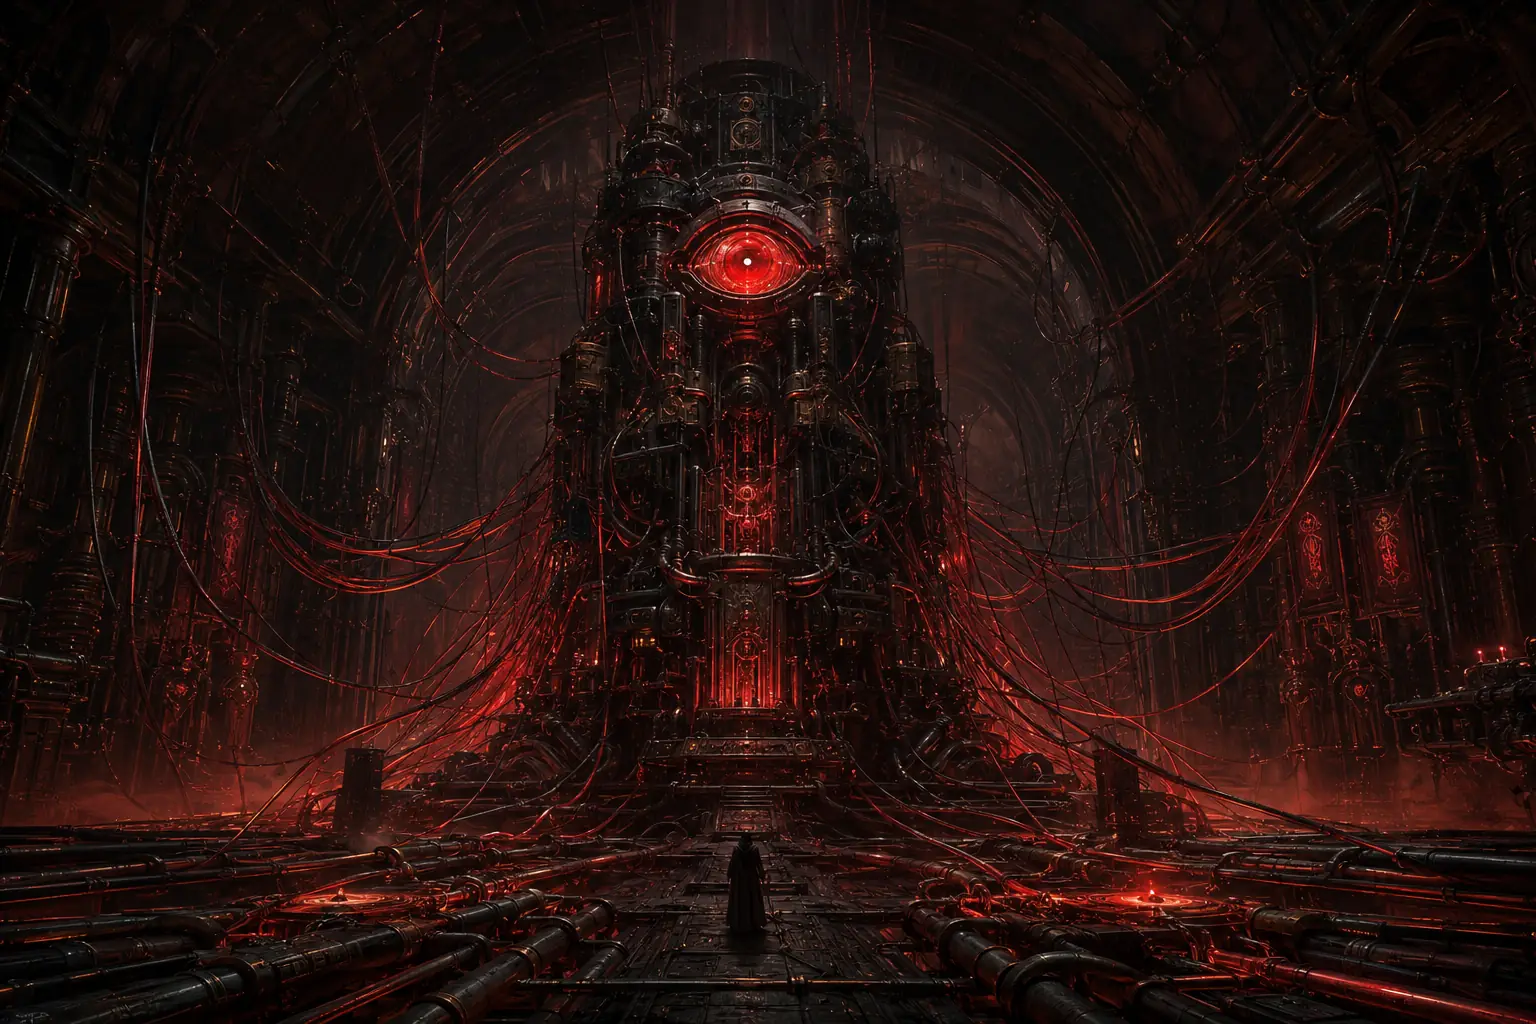
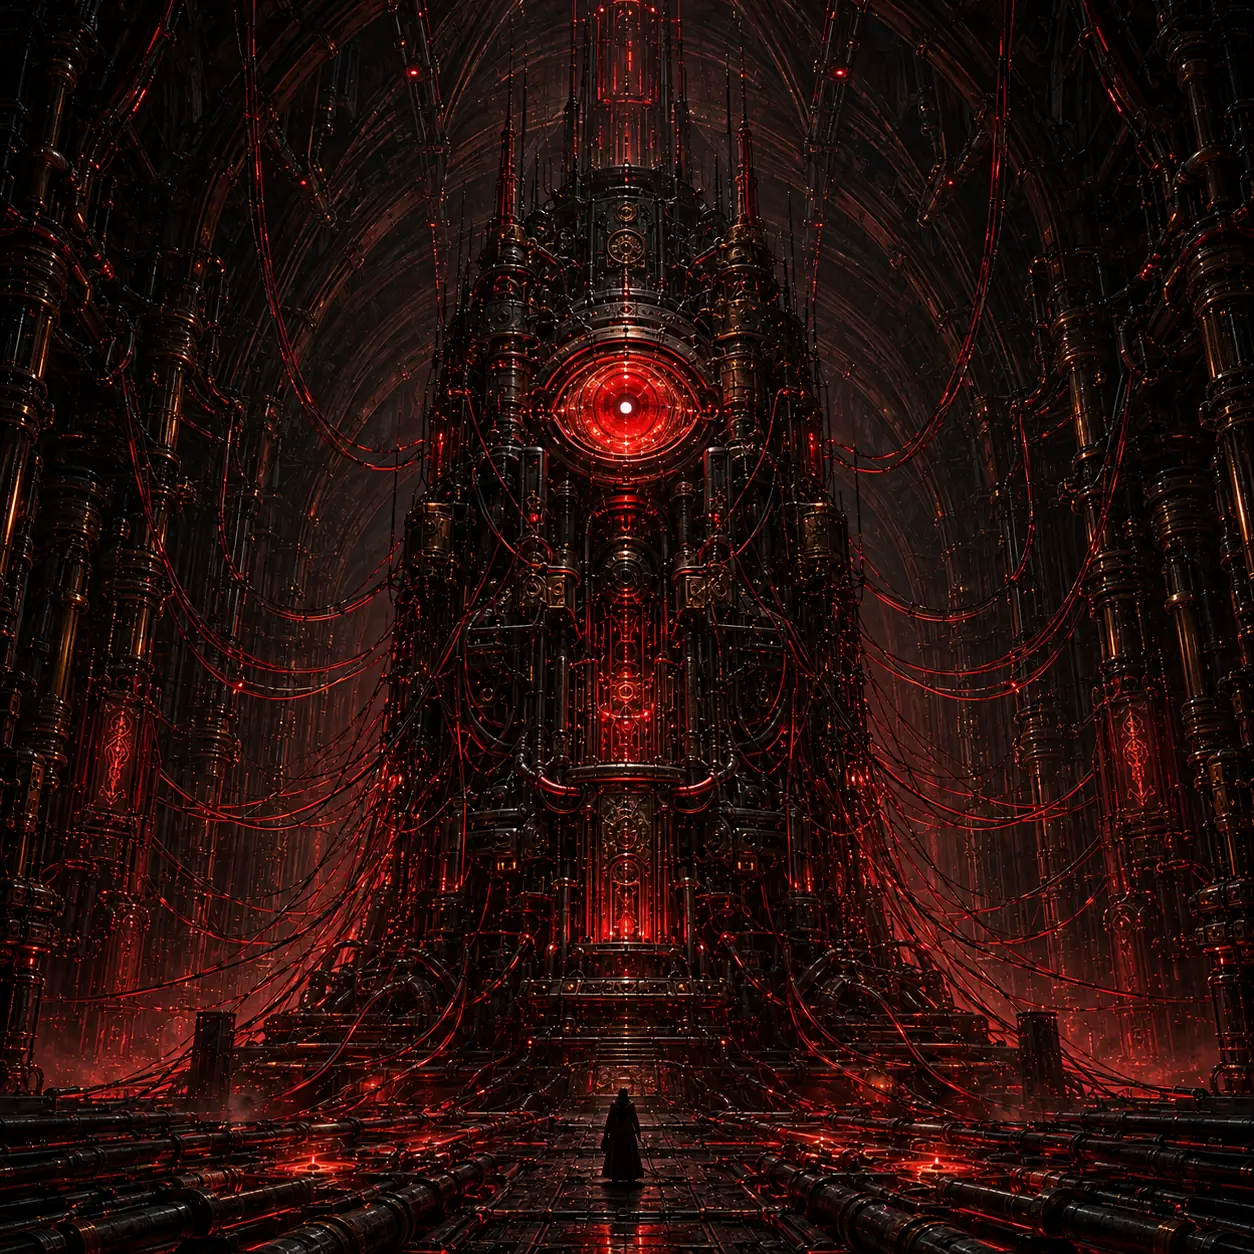
Met à jour la page et l'image du réceptacle

diff --git a/docs/index.html b/docs/index.html
@@ -34,9 +34,10 @@ body {
 #stage { position: fixed; inset: 0; overflow: hidden; }
 #shake { position: absolute; inset: 0; will-change: transform; }
 
+/* Les deux images sont dimensionnées en JavaScript (fonction layoutScene) pour que l'œil tombe sous la lentille. */
+#bg, #ghost { position: absolute; max-width: none; }
 #bg {
-  position: absolute; inset: 0; width: 100%; height: 100%;
-  object-fit: cover; opacity: 0;
+  opacity: 0;
   filter: blur(14px) brightness(2.2) saturate(1.4);
   transform: scale(1.08);
   transition: opacity 2.4s ease-out, filter 3.2s ease-out, transform 6s ease-out;
@@ -138,7 +139,7 @@ body {
 .hint { font-family: var(--font-sys); font-size: .6rem; color: var(--dim); opacity: .7; letter-spacing: .08em; }
 
 /* --- Éclairage des impacts --- */
-#ghost { position: absolute; inset: 0; width: 100%; height: 100%; object-fit: cover; opacity: 0;
+#ghost { opacity: 0;
          filter: grayscale(.4) brightness(1.1) contrast(1.3); pointer-events: none; }
 #ghost.on { opacity: .16; transition: none; }
 #ghost.fade { opacity: 0; transition: opacity .22s ease-out; }
@@ -213,7 +214,9 @@ body {
 /* ===== Réglages ===== */
 const WORKER_URL = "https://ego-worker.anotherj4ck.workers.dev/ask";
 const AUTHOR_URL = "https://anotherj4ck.github.io/auteur/";   // ← adresse de ton site d'auteur
-const IMG = { w: 1536, h: 1024, eyeX: 747, eyeY: 261, eyeR: 56 }; // position de l'œil dans l'image
+// Position de l'œil dans l'image, en fraction de sa largeur/hauteur (indépendant de la résolution).
+const IMG = { ratio: 1, eyeX: 0.5, eyeY: 0.3264, eyeR: 0.0494 };
+const LENS = { x: 0.5, y: 0.34 }; // place de la lentille à l'écran (fraction de la fenêtre)
 const REDUCED = matchMedia("(prefers-reduced-motion: reduce)").matches;
 
 /* ===== Scénario : séquence 01 « Calibrage » =====
@@ -328,18 +331,32 @@ const lens = $("lens"), log = $("log"), choicesEl = $("choices");
 const wait = (ms) => new Promise((r) => setTimeout(r, ms));
 
 /* ===== Placement de la lentille (centre, puis sur l'œil de l'image) ===== */
-function eyeOnScreen() {
+// Cale l'image pour que son œil soit exactement sous la lentille, en la couvrant entièrement :
+// on cherche la plus petite échelle qui remplit l'écran sur les quatre côtés autour de ce point.
+let scene = { d: 0 };
+function layoutScene() {
   const vw = innerWidth, vh = innerHeight;
-  const s = Math.max(vw / IMG.w, vh / IMG.h);          // même calcul que object-fit: cover
-  const ox = (vw - IMG.w * s) / 2, oy = (vh - IMG.h * s) / 2;
-  return { x: ox + IMG.eyeX * s, y: oy + IMG.eyeY * s, d: IMG.eyeR * 2 * s };
+  const tx = vw * LENS.x, ty = vh * LENS.y;
+  const ex = IMG.eyeX, ey = IMG.eyeY;           // en fraction de la largeur (w) et de la hauteur (h = w / ratio)
+  const w = Math.max(
+    tx / ex,                                    // assez à gauche de l'œil
+    (vw - tx) / (1 - ex),                       // assez à droite
+    (ty / ey) * IMG.ratio,                      // assez au-dessus
+    ((vh - ty) / (1 - ey)) * IMG.ratio          // assez en dessous
+  );
+  const h = w / IMG.ratio;
+  const left = tx - ex * w, top = ty - ey * h;
+  for (const img of [$("bg"), $("ghost")]) {
+    Object.assign(img.style, { left: left + "px", top: top + "px", width: w + "px", height: h + "px",
+                               transformOrigin: `${ex * w}px ${ey * h}px` }); // le zoom de révélation reste centré sur l'œil
+  }
+  scene = { x: tx, y: ty, d: IMG.eyeR * 2 * w };
 }
 function placeLens() {
-  let x, y, d;
-  if (S.revealed) ({ x, y, d } = eyeOnScreen());
-  else { x = innerWidth / 2; y = innerHeight * 0.34; d = 28; }
+  layoutScene();
+  const d = S.revealed ? scene.d : 28;        // la lentille ne bouge plus : elle grandit jusqu'à la taille de l'œil
   const st = document.documentElement.style;
-  st.setProperty("--lx", x + "px"); st.setProperty("--ly", y + "px"); st.setProperty("--ld", d + "px");
+  st.setProperty("--lx", scene.x + "px"); st.setProperty("--ly", scene.y + "px"); st.setProperty("--ld", d + "px");
 }
 addEventListener("resize", () => { placeLens(); sizeCanvas(); });
 
